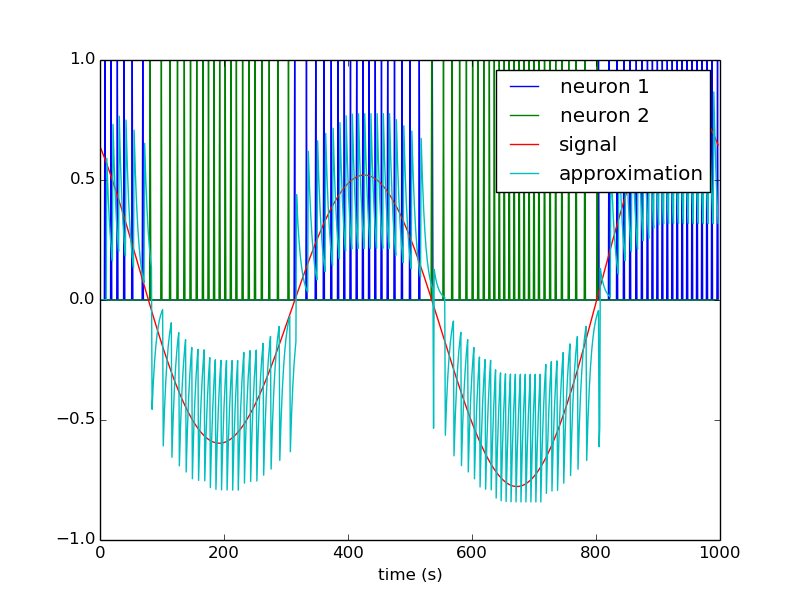
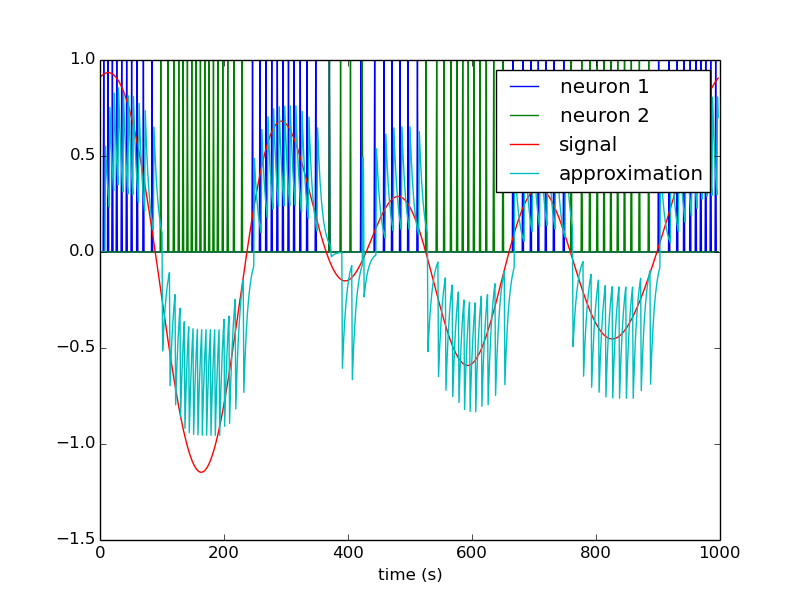
got q2 working

diff --git a/SYDE750_ass3/utils.py b/SYDE750_ass3/utils.py
@@ -1,13 +1,24 @@
+import ipdb
+import numpy as np
+import matplotlib.pyplot as plt
+import matplotlib as mpl
+
 def calc_rmse(predictions, targets):
 	return np.sqrt( (np.square(predictions - targets)).mean() )
 
-def lif_neuron(x_inter, max_fire, t_ref=0.002, t_rc=0.02):
+def drms(sig):
+	return np.sqrt(np.sum(np.square(sig))/sig.size)
+
+def lif_neuron(x_inter, max_fire, t_ref=0.002, t_rc=0.02, radius=1.0):
 	beta = 1.0 / (
 		1.0 - np.exp(
 			(-1.0/max_fire + t_ref) / t_rc
 		)
 	)
-	alpha = (1.0 - beta)/(x_inter + 1.0)
+	# okay, how the hell do you take the radius into account?
+	alpha = 1.0/radius * (1.0 - beta)/(x_inter + 1.0)
+	#J_bias = 1.0 - alpha * x_inter * radius
+	#alpha = (1.0 - beta)/(x_inter + 1.0)
 	J_bias = 1.0 - alpha * x_inter
 	def lif(x):
 		J = x * alpha + J_bias
@@ -22,11 +33,54 @@ def lif_neuron(x_inter, max_fire, t_ref=0.002, t_rc=0.02):
 		return return_val
 	return lif
 
-def get_activities(neuron_type, x_vals, n_neurons, x_cepts, max_firing_rates, gain_signs):
+def modified_lif(x0_fire, max_fire, t_ref=0.002, t_rc=0.02):
+	beta = 1.0 / (
+		1.0 - np.exp(
+			(-1.0/max_fire + t_ref) / t_rc
+		)
+	)
+	J_bias = 1.0 / (
+		1.0 - np.exp(
+			(-1.0/x0_fire + t_ref) / t_rc
+		)
+	)
+	alpha = beta - J_bias
+	def lif_current(x):
+		J = x * alpha + J_bias
+		if(J > 1):
+			return J
+		else:
+			return 0.0
+
+	return lif_current
+
+def additive_lif(x_inter, max_fire, t_ref=0.002, t_rc=0.02):
+	beta = 1.0 / (
+		1.0 - np.exp(
+			(-1.0/max_fire + t_ref) / t_rc
+		)
+	)
+	alpha = (1.0 - beta)/(x_inter + 1.0)
+	J_bias = 1.0 - alpha * x_inter
+	def lif(x):
+		# dot product with the decoders?
+		J = x * alpha + J_bias
+		return_val = np.zeros(x.shape[0])
+		# Select all the values where J > 1
+		return_val[J > 1] += np.maximum(
+						# Caluclate the activity
+						1.0/(t_ref-t_rc*np.log(1-1/J[J > 1])),
+						# make it zero if it's below zero
+						np.zeros(return_val[J > 1].size)
+					)
+		return return_val
+	return lif
+
+def get_activities(neuron_type, x_vals, n_neurons, x_cepts, max_firing_rates, gain_signs, radius=1.0):
 	neuron_list = []
 	A = np.zeros((n_neurons, x_vals.size))
 	for i in range(n_neurons):
-		neuron_list.append(neuron_type(x_cepts[i], max_firing_rates[i]))
+		neuron_list.append(neuron_type(x_cepts[i], max_firing_rates[i], radius=radius))
 		A[i,:] = neuron_list[i](x_vals*gain_signs[i])
 	return A, neuron_list
 
@@ -34,7 +88,6 @@ def get_decoders(A, S, x_vals):
 	gamma = np.dot(A, A.T) / S
 	upsilon = np.dot(A, x_vals) / S
 	decoders = np.dot(np.linalg.pinv(gamma), upsilon)
-	ipdb.set_trace()
 	x_hat = np.dot(A.T, decoders)
 	return decoders, x_hat
 
@@ -58,3 +111,103 @@ def plot_xhat(x_vals, x_hat, title, filename):
 	plt.ylabel("Error")
 	plt.xlim([-1,1])
 	plt.savefig("%s_2" %filename)
+
+def whitenoise(T, dt, rms, limit, seed):
+	# randomly generate co-efficient from a gaussian distribution equal to half the size of frequencies
+	# 1/dt / 1/T / 2
+	np.random.seed(seed)
+	coef = np.random.normal(0, 1,
+					int( np.ceil(T/(2.0*dt)) )
+				) + 1j * np.random.normal(0, 1,
+					int( np.ceil(T/(2.0*dt)) )
+				)
+
+	# eliminate anything over the limit
+	frequencies = np.arange(0, coef.size, 1.0)
+	coef[frequencies > limit] = 0.0
+	coef[0] = 0.0
+	if(coef.size % 2 == 1):
+		print("odd")
+		final_coef = np.zeros(coef[1:].size * 2 + 1, dtype=np.complex_)
+		final_coef[coef.size] = coef
+		final_coef[coef.size:] = coef[1:][::-1].conj()
+	else:
+		final_coef = np.zeros(coef[1:-1].size * 2 + 2, dtype=np.complex_)
+		# Don't touch the DC or the middle term!
+		final_coef[:coef.size] = coef
+		final_coef[coef.size:] = coef[1:-1][::-1].conj()
+
+	# bring it to the time domain
+	time_domain = np.fft.ifft(final_coef)
+	# make it totally real
+	time_domain = np.real(time_domain)
+	# calculate the rms and scale it
+	curr_rms = drms(time_domain)
+	time_domain = (rms/curr_rms)*time_domain
+	return time_domain, (rms/curr_rms)*final_coef
+
+def spiking(potential):
+	if(potential < 2):
+		return 0.0
+	else:
+		return 1.0
+
+class SpikingLif(object):
+	def __init__(self, t_ref=0.002, t_rc=0.02, dt=0.001):
+		self.t_ref = t_ref
+		self.t_rc = t_rc
+		self.refac_time = 0.0
+		self.refac = True
+		self.dt = dt
+		self.potential = 0.0
+		self.spike_count = 0
+
+	def spike(self, current):
+		if(self.refac == False):
+			# use that differential equation
+			dV = 1.0/self.t_rc*(current-self.potential)*self.dt
+			#ipdb.set_trace()
+			self.potential += dV
+			# If we've reached 1, spike
+			if(self.potential >= 1):
+				# start the refactory period and reset the potential
+				self.refac = True
+				self.potential = 0.0
+				self.spike_count += 1
+				return 2.0
+			return self.potential
+		else:
+			# increment the refactory period
+			self.refac_time += self.dt
+			if(self.refac_time >= self.t_ref):
+				# if we've reached the maximum refactory period, reset it
+				self.refac = False
+				self.refac_time = 0.0
+			return 0.0
+
+def lif_ensemble(lifs, encoders):
+	lifs = lifs
+	encoders = encoders
+	neurons = []
+	for l_i in range(len(lifs)):
+		neurons.append(SpikingLif())
+
+	def spiking_ensemble(x):
+		# generate spikes
+		spikes = []
+		for n_i, neuron in enumerate(neurons):
+			spikes.append(
+				spiking(
+					neuron.spike(
+						lifs[n_i](x*encoders[n_i])
+					)
+				)
+			)
+		return spikes
+	return spiking_ensemble
+
+def z_center(data):
+	if(data.size % 2 == 0):
+		return np.linspace(-data.size/2, data.size/2, data.size)
+	else:
+		return np.linspace(-data.size/2, data.size/2, data.size+1)

diff --git a/SYDE750_ass3/q2.py b/SYDE750_ass3/q2.py
@@ -1,0 +1,65 @@
+import numpy as np
+import ipdb
+import matplotlib.pyplot as plt
+
+from utils import whitenoise, calc_rmse, lif_ensemble, modified_lif, z_center
+
+def ptsc(t, tau):
+	return_val = np.exp(-t/tau) * (t > 0)
+	return return_val/np.sum(return_val)
+
+dt = 0.001
+t_range = np.arange(998)*dt-0.5
+h = ptsc(t_range, 0.005)
+fig = plt.figure()
+plt.plot(z_center(h))
+plt.title("post-synaptic current filter")
+plt.savefig("2_a")
+
+# create the noise signal
+noise_sig, _ = whitenoise(1, dt, 1, 5, 0)
+
+# create the lif ensemble
+lifs = []
+lifs.append(modified_lif(0.2, 150))
+lifs.append(modified_lif(0.2, 150))
+ensemble = lif_ensemble(lifs, [-1, 1])
+
+# get the spikes
+res_noise = []
+for val in noise_sig:
+	res_noise.append(ensemble(val))
+res_noise = np.array(res_noise)
+
+# first let's make sure the spikes actually makes sense
+fig = plt.figure()
+plt.plot(res_noise)
+plt.plot(noise_sig)
+plt.savefig("spike_test")
+
+# filter the spikes
+A = np.zeros((t_range.size, res_noise.shape[1]))
+for i_n in range(len(lifs)):
+	A[:,i_n] = np.convolve(res_noise[:,i_n], h, mode='same')
+
+# after filtering
+fig = plt.figure()
+plt.plot(A)
+plt.plot(noise_sig)
+plt.savefig("blur_test")
+
+# decode with the normal LIF encoders
+S = A.shape[0]
+gamma = np.dot(A.T, A) / S
+upsilon = np.dot(A.T, noise_sig) / S
+decoders = np.dot(np.linalg.pinv(gamma), upsilon)
+x_hat = np.dot(A, decoders)
+
+fig = plt.figure()
+plt.plot(noise_sig)
+plt.plot(x_hat)
+plt.plot(res_noise)
+plt.title("result of filtered spikes")
+plt.savefig("2_b")
+
+print("rmse:%s" %str(calc_rmse(x_hat, noise_sig)))

diff --git a/SYDE750_ass3/q1.py b/SYDE750_ass3/q1.py
@@ -3,12 +3,14 @@ import numpy as np
 import matplotlib.pyplot as plt
 import matplotlib as mpl
 
-from utils import calc_rmse, rec_lin_neuron, lif_neuron, get_activities, get_decoders, plot_xhat
+from utils import calc_rmse, lif_neuron, get_activities, get_decoders, plot_xhat
 
 # Generate some neurons and plot the tuning curves
 n_neurons = 16
 rmse = []
 
+# this feels weird, because my neurons look weird
+# can I keep the radius of the input = 1, even if my x-intercepts are being generated outside of that range?
 max_firing_rates = np.random.uniform(100, 200, n_neurons)
 x_cepts = np.random.uniform(-2, 2, n_neurons)
 gain_signs = np.random.choice([-1, 1], n_neurons)
@@ -16,7 +18,8 @@ gain_signs = np.random.choice([-1, 1], n_neurons)
 x_vals = np.arange(-2.55, 2.55, 0.05)
 S = x_vals.size
 
-A, neurons = get_activities(lif_neuron, x_vals, n_neurons, x_cepts, max_firing_rates, gain_signs)
+# Okay, I have no idea how to a radius of 2.0, but I'm going to assume it's not a big deal
+A, neurons = get_activities(lif_neuron, x_vals, n_neurons, x_cepts, max_firing_rates, gain_signs, radius=1.0)
 
 # plot the lif neurons
 fig = plt.figure()

diff --git a/SYDE750_ass2/q5.py b/SYDE750_ass2/q5.py
@@ -40,6 +40,12 @@ res_noise = np.array(res_noise)
 fspikes1 = np.convolve(res_noise[:,0], h, mode='same')
 fspikes2 = np.convolve(res_noise[:,1], h, mode='same')
 
+fig = plt.figure()
+plt.plot(noise)
+plt.plot(fspikes1)
+plt.plot(fspikes2)
+plt.savefig("spike_test")
+
 A = np.array([fspikes1, fspikes2]).T
 S = fspikes1.shape[0]
 

diff --git a/SYDE750_ass1/utils.py b/SYDE750_ass1/utils.py
@@ -53,7 +53,6 @@ def get_decoders(A, S, x_vals):
 	gamma = np.dot(A, A.T) / S
 	upsilon = np.dot(A, x_vals) / S
 	decoders = np.dot(np.linalg.pinv(gamma), upsilon)
-	ipdb.set_trace()
 	x_hat = np.dot(A.T, decoders)
 	return decoders, x_hat
 

diff --git a/SYDE750_ass3/q3.py b/SYDE750_ass3/q3.py
@@ -1,0 +1,7 @@
+# Like question 2, but just scale up the neurons
+
+n_neurons = [8, 16, 32, 64, 128, 256]
+
+for n_i in n_neurons:
+	# create the decoders
+	# create the ensemble

diff --git a/SYDE750_ass3/q4.py b/SYDE750_ass3/q4.py
@@ -1,0 +1,3 @@
+# just pass in f_x into the decoders of the first population
+# do I mean the activity matrix?
+# do I just get the activities from the previous deocder matrix?

diff --git a/SYDE750_ass3/q5.py b/SYDE750_ass3/q5.py
@@ -1,0 +1,2 @@
+# just plug in the decoded currents and pass them into the next population
+# don't forget the weighting
